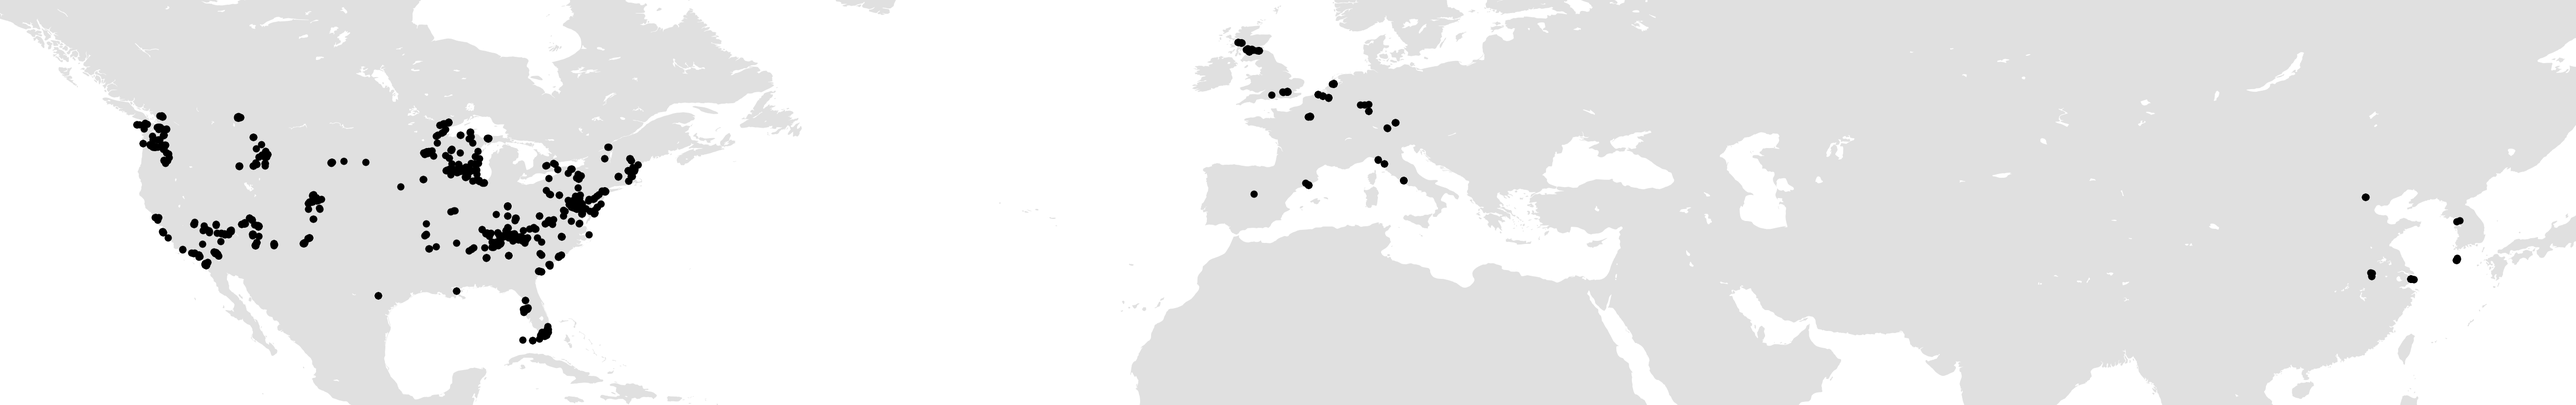
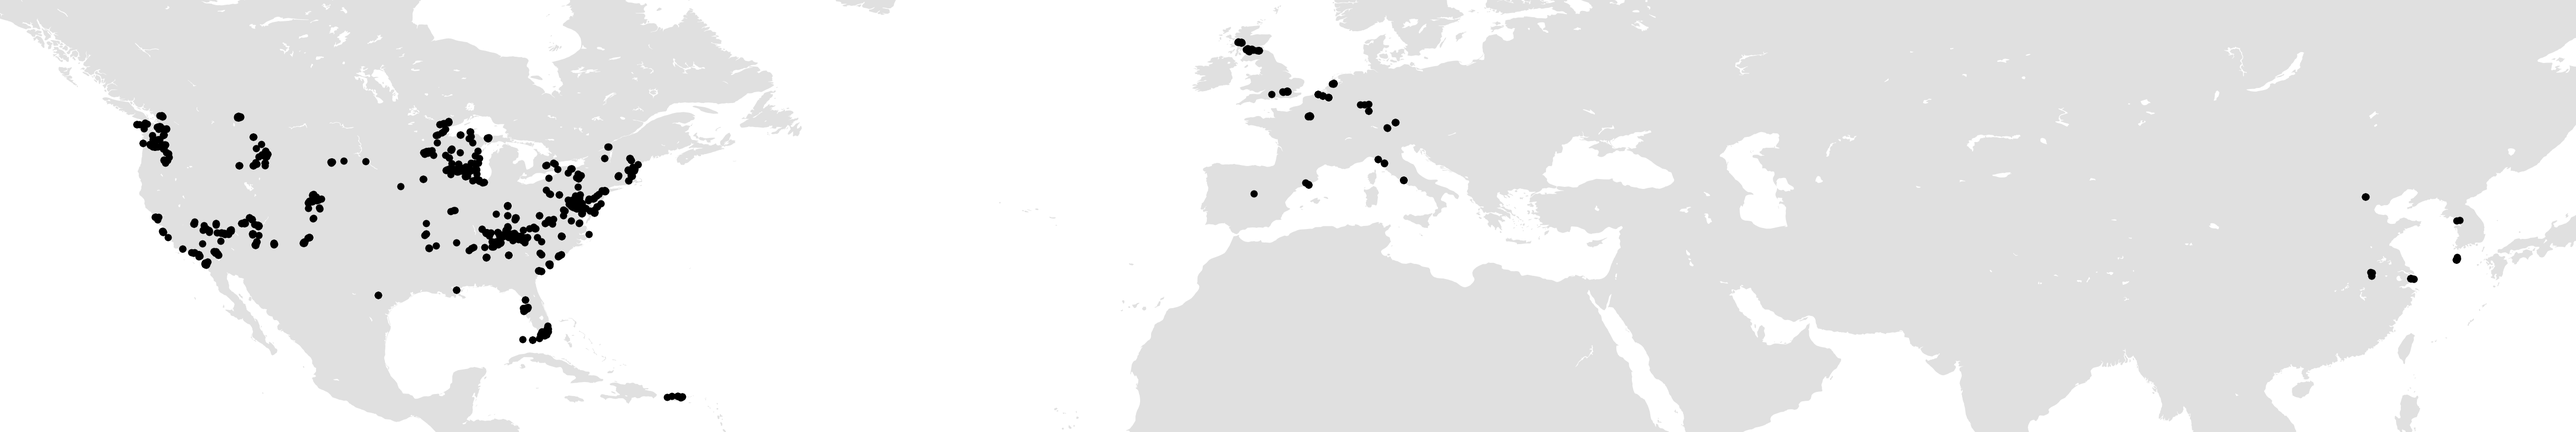
Adding PR map

diff --git a/map/plot_cartopy.py b/map/plot_cartopy.py
@@ -24,7 +24,7 @@ with open("hack.txt") as f:
 
 lon_min = -140
 lon_max = 140
-lat_min = 17
+lat_min = 14
 lat_max = 62
 
 ax = plt.subplot(projection = ccrs.PlateCarree())
